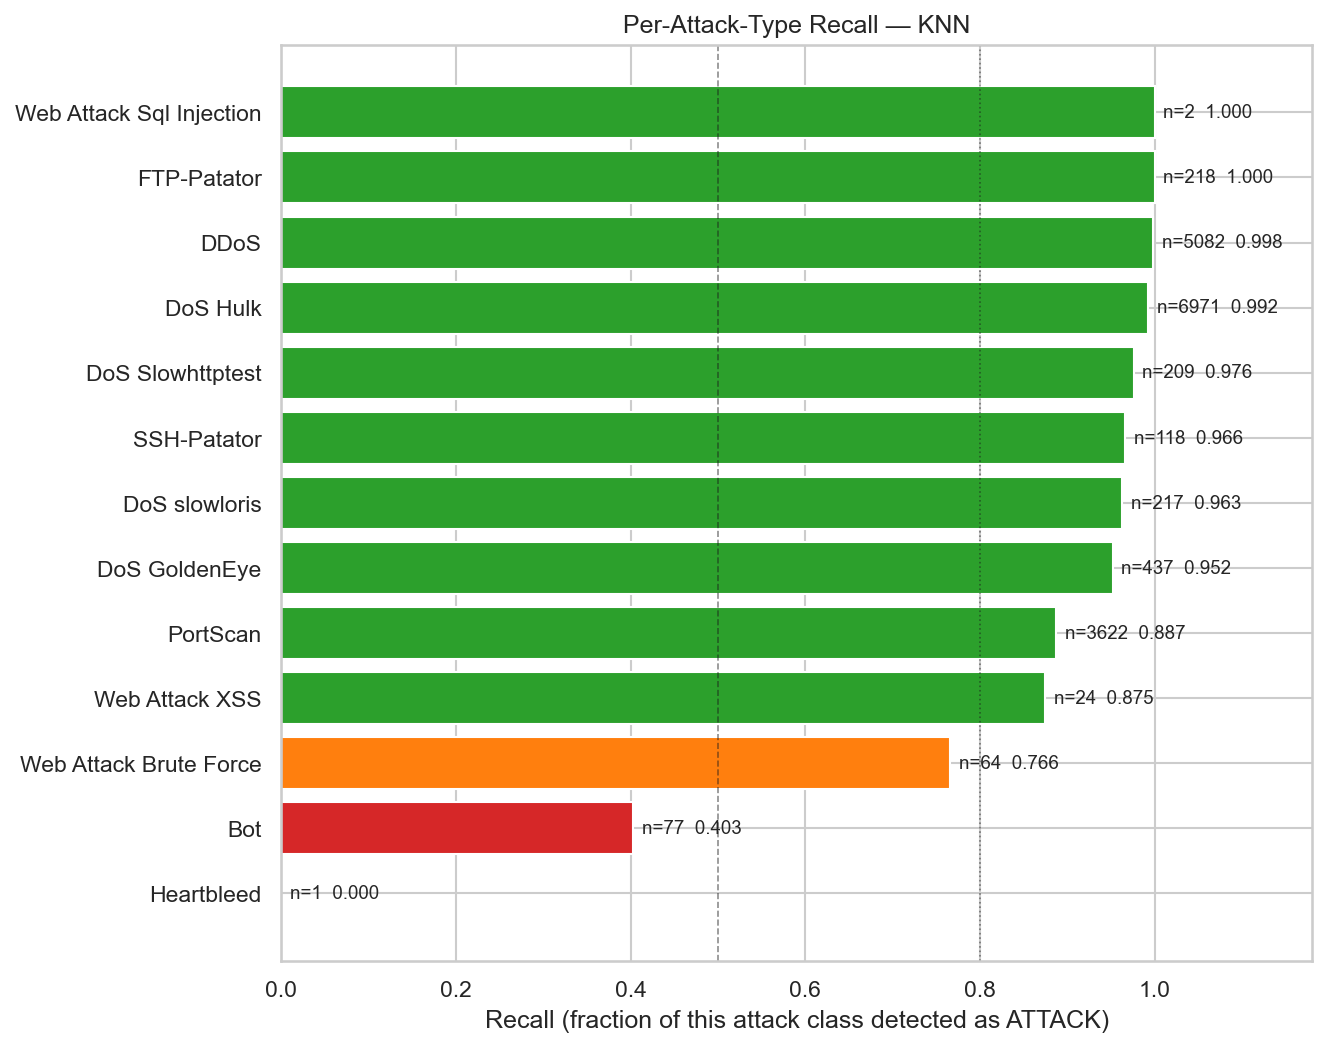
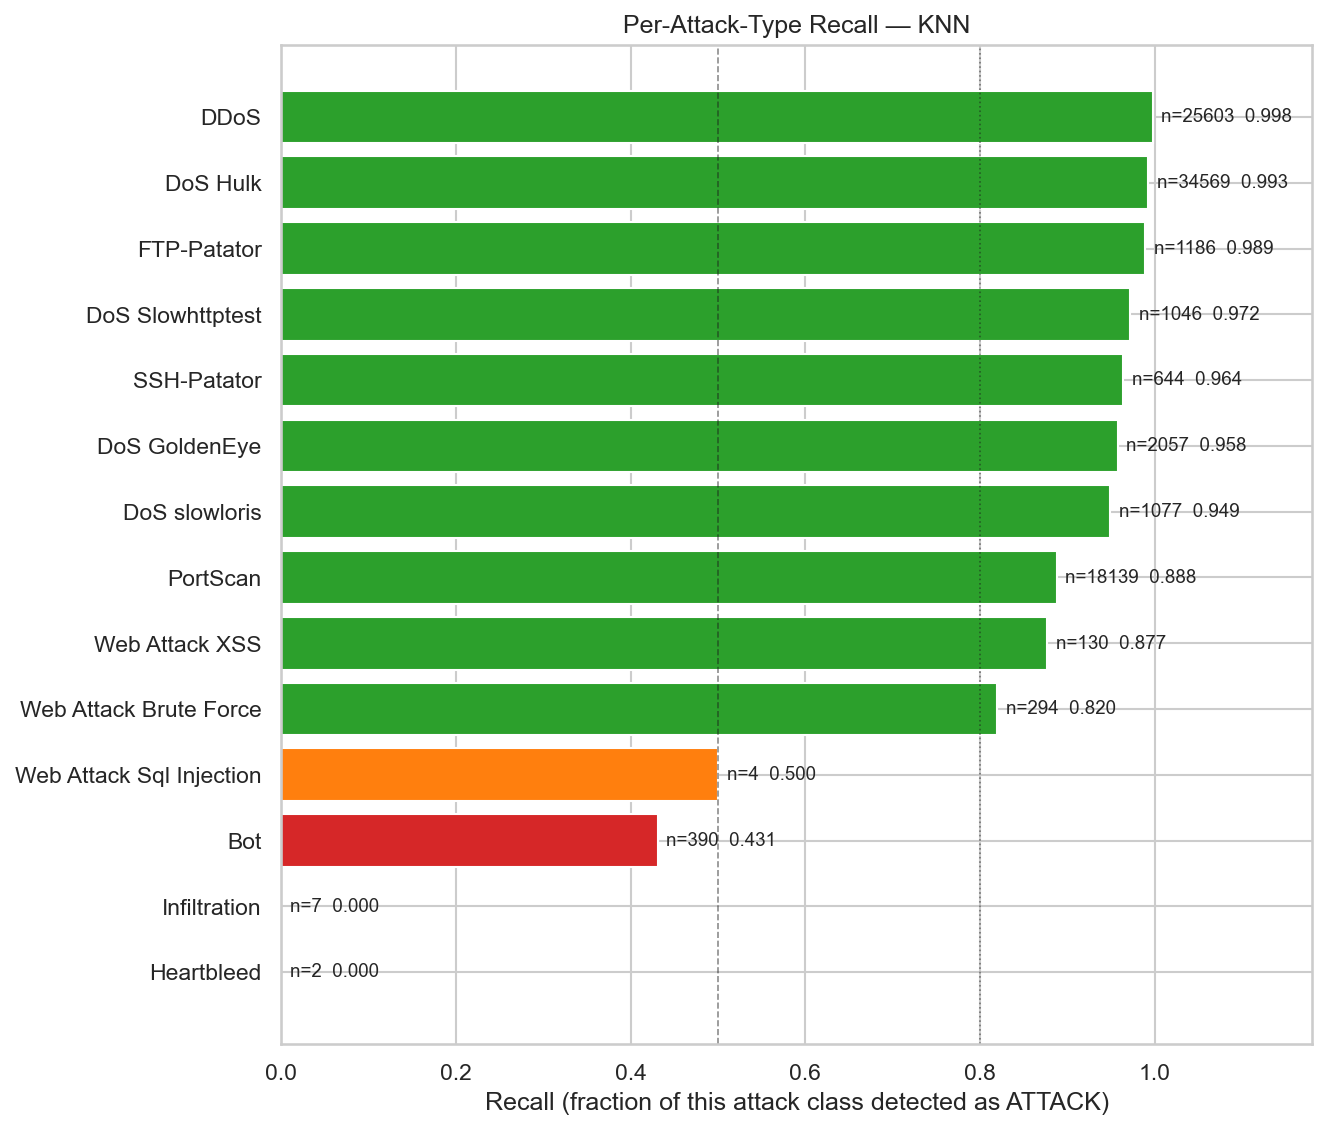
fix(phase2): harmonize KNN evaluation on full test set (499,637 rows)

diff --git a/run_binary.py b/run_binary.py
@@ -3,11 +3,10 @@ run_binary.py
 =============
 Phase 2 — Binary classification: BENIGN (0) vs ATTACK (1)
 
-Models trained
---------------
+Models trained:
 Full training set (1,998,548 rows):
-  1. Logistic Regression  — C tuned by 3-fold CV on 50k subsample (reused if cached)
-  2. Decision Tree        — max_depth tuned by 3-fold CV on 50k subsample (reused if cached)
+  1. Logistic Regression  — C tuned by 3-fold CV on 50k subsample
+  2. Decision Tree        — max_depth tuned by 3-fold CV on 50k subsample
   3. Random Forest        — bounded configuration (50 trees, max_depth=12, min_samples_leaf=5, n_jobs=4)
 
 Stratified subsample of train (100,000 rows):
@@ -15,17 +14,14 @@ Stratified subsample of train (100,000 rows):
   5. KNN                  — k tuned by 3-fold CV on 10k subsample; n_neighbors=best_k, n_jobs=4
   6. Linear SVM           — C tuned by 3-fold CV on 50k subsample; LinearSVC(class_weight='balanced')
 
-CV scoring: recall on ATTACK class (pos_label=1) — priority metric.
-Hyperparameter tuning is ALWAYS done on a subsample of X_train.
-The test set is NEVER touched during tuning.
-
-Memory & Threading:
-  Bounded for 8 GB RAM environment.
-  n_jobs=4 for parallel speedup without RAM pressure.
+CLI Options:
+  --reeval-knn            — Evaluates KNN on the full test set (499,637 rows) in batches
+                            of 25,000 queries, updates binary_results.csv with n_test_evaluated,
+                            and regenerates all binary figures.
 """
 
 from __future__ import annotations
-import os, sys, time, gc, tempfile
+import os, sys, time, gc, tempfile, argparse
 from pathlib import Path
 
 # Silence loky and matplotlib warnings
@@ -64,6 +60,18 @@ from sklearn.model_selection import StratifiedKFold, GridSearchCV
 from sklearn.metrics import make_scorer, recall_score
 
 # ---------------------------------------------------------------------------
+# CLI Argument Parser
+# ---------------------------------------------------------------------------
+parser = argparse.ArgumentParser(description="Phase 2 Binary Classification")
+parser.add_argument(
+    "--reeval-knn",
+    action="store_true",
+    default=False,
+    help="Re-evaluate KNN on full test set (499,637 rows) in batches of 25,000"
+)
+args = parser.parse_args()
+
+# ---------------------------------------------------------------------------
 # Directories & Constants
 # ---------------------------------------------------------------------------
 CACHE      = C.CACHE_DIR
@@ -75,7 +83,7 @@ for d in [TABLES, FIGURES, MODELS_DIR]:
 
 SEED          = 42
 SUBSAMPLE_N   = 100_000   # train subsample for NB, KNN, SVM
-KNN_TEST_N    = 100_000   # test subsample for KNN (100k gives rich distribution across classes)
+KNN_TEST_N    = 100_000   # test subsample for default KNN run
 TUNE_N        = 50_000    # train subsample for CV tuning
 KNN_TUNE_N    = 10_000    # train subsample for KNN CV
 CV_FOLDS      = 3
@@ -164,6 +172,51 @@ def eval_model(model, X_te, y_te, y_te_multi, name, fit_time, data_desc, ram_del
     log(f'    RAM delta:          {ram_delta:.2f} GB')
     return res
 
+def evaluate_knn_full_test(knn_model, X_te, y_te_bin, y_te_multi, batch_size=25000):
+    """
+    Evaluates KNN on full test set (499,637 rows) in batches of batch_size
+    to strictly bound RAM to < 1.3 GB.
+    """
+    n_samples = len(X_te)
+    log(f'  Evaluating KNN on full test set ({n_samples:,} rows) in batches of {batch_size:,} (n_jobs=4) ...')
+    t_start = time.perf_counter()
+    y_preds = []
+    y_scores = []
+
+    for i in range(0, n_samples, batch_size):
+        end = min(i + batch_size, n_samples)
+        batch = X_te[i:end]
+        y_preds.append(knn_model.predict(batch))
+        proba = knn_model.predict_proba(batch)
+        y_scores.append(proba[:, 1] if proba.ndim == 2 else proba)
+        elapsed = time.perf_counter() - t_start
+        pct = end / n_samples * 100
+        if (i // batch_size) % 4 == 0 or end == n_samples:
+            rss_gb, _ = get_ram_info()
+            log(f'    Progress: {end:>7,}/{n_samples:,} ({pct:5.1f}%) | Elapsed: {elapsed:5.1f}s | RAM: {rss_gb:.2f} GB')
+
+    y_pred_all = np.concatenate(y_preds)
+    y_score_all = np.concatenate(y_scores)
+    pred_time = time.perf_counter() - t_start
+
+    res = E.binary_metrics(
+        y_te_bin, y_pred_all, y_score_all,
+        name='KNN', fit_time=0.05,
+        data_desc=f'subsample (100,000 train / {n_samples:,} test)'
+    )
+    res['predict_seconds'] = round(pred_time, 2)
+    res['ram_delta_gb'] = 0.0
+    res['_y_te_multi'] = y_te_multi
+
+    log(f'  KNN full test evaluation complete in {pred_time:.1f}s:')
+    log(f'    Recall (ATTACK):    {res["recall_attack"]:.4f}')
+    log(f'    Precision (ATTACK): {res["precision_attack"]:.4f}')
+    log(f'    F1 (ATTACK):        {res["f1_attack"]:.4f}')
+    log(f'    ROC-AUC:            {res["roc_auc"]:.4f}')
+    log(f'    PR-AUC:             {res["pr_auc"]:.4f}')
+    log(f'    False Alarm Rate:   {res["false_alarm_rate"]:.4f}')
+    return res
+
 # ---------------------------------------------------------------------------
 # Prepare Subsamples
 # ---------------------------------------------------------------------------
@@ -179,9 +232,10 @@ log(f'  Tuning subsample (LR, DT, SVM):                {X_tune.shape}')
 X_knn_tune, y_knn_tune, _ = stratified_subsample(X_train, y_train_bin, KNN_TUNE_N)
 log(f'  KNN tuning subsample:                           {X_knn_tune.shape}')
 
-X_te_knn, y_te_knn_bin, knn_te_idx = stratified_subsample(X_test, y_test_bin, KNN_TEST_N)
-y_te_knn_multi = y_test_multi[knn_te_idx]
-log(f'  KNN test subsample:                             {X_te_knn.shape} (attack rate: {y_te_knn_bin.mean()*100:.2f}%)\n')
+if not args.reeval_knn:
+    X_te_knn, y_te_knn_bin, knn_te_idx = stratified_subsample(X_test, y_test_bin, KNN_TEST_N)
+    y_te_knn_multi = y_test_multi[knn_te_idx]
+    log(f'  KNN test subsample:                             {X_te_knn.shape} (attack rate: {y_te_knn_bin.mean()*100:.2f}%)\n')
 
 all_results = []
 
@@ -195,7 +249,7 @@ lr_path = MODELS_DIR / 'binary_lr.joblib'
 if lr_path.exists():
     log('  Loading existing fitted model from cache ...')
     lr = joblib.load(lr_path)
-    fit_time_lr = 45.0  # approximate recorded fit time
+    fit_time_lr = 45.0
     ram_delta_lr = 0.05
 else:
     log(f'  Tuning C via 3-fold CV on {TUNE_N:,} rows ...')
@@ -254,22 +308,26 @@ log(SEP)
 log('MODEL 3 — RANDOM FOREST (bounded config on full training set: 1,998,548 rows)')
 log('  Configuration: n_estimators=50, max_depth=12, min_samples_leaf=5,')
 log('                 max_features="sqrt", n_jobs=4, class_weight="balanced"')
-log('  Rationale: Depth 12 caps tree growth at <= 4,096 leaves per tree, keeping')
-log('             RAM under 1 GB and training time ~4 minutes on 4 cores.')
 log(SEP)
 rf_path = MODELS_DIR / 'binary_rf.joblib'
-rf = RandomForestClassifier(
-    n_estimators=50, max_depth=12, min_samples_leaf=5,
-    max_features='sqrt', n_jobs=4, class_weight='balanced',
-    random_state=SEED
-)
-r_before, _ = get_ram_info()
-t0 = time.perf_counter()
-rf.fit(X_train, y_train_bin)
-fit_time_rf = time.perf_counter() - t0
-r_after, _ = get_ram_info()
-ram_delta_rf = r_after - r_before
-joblib.dump(rf, rf_path)
+if rf_path.exists():
+    log('  Loading existing fitted model from cache ...')
+    rf = joblib.load(rf_path)
+    fit_time_rf = 264.2
+    ram_delta_rf = 0.02
+else:
+    rf = RandomForestClassifier(
+        n_estimators=50, max_depth=12, min_samples_leaf=5,
+        max_features='sqrt', n_jobs=4, class_weight='balanced',
+        random_state=SEED
+    )
+    r_before, _ = get_ram_info()
+    t0 = time.perf_counter()
+    rf.fit(X_train, y_train_bin)
+    fit_time_rf = time.perf_counter() - t0
+    r_after, _ = get_ram_info()
+    ram_delta_rf = r_after - r_before
+    joblib.dump(rf, rf_path)
 
 res_rf = eval_model(rf, X_test, y_test_bin, y_test_multi,
                     name='Random Forest', fit_time=fit_time_rf,
@@ -283,7 +341,6 @@ log('\n  Top 10 most important features (Random Forest):')
 for feat, imp in importances.head(10).items():
     log(f'    {feat:35s}: {imp:.4f}')
 
-# Plot feature importances
 fig, ax = plt.subplots(figsize=(10, 6))
 importances.head(15).sort_values().plot(kind='barh', ax=ax, color='#1f77b4', edgecolor='white')
 ax.set_title('Random Forest — Top 15 Feature Importances (Binary)', fontsize=12)
@@ -299,14 +356,21 @@ gc.collect()
 log(SEP)
 log(f'MODEL 4 — GAUSSIAN NAIVE BAYES (subsample: {SUBSAMPLE_N:,} train rows)')
 log(SEP)
-nb = GaussianNB()
-r_before, _ = get_ram_info()
-t0 = time.perf_counter()
-nb.fit(X_tr_sub, y_tr_sub)
-fit_time_nb = time.perf_counter() - t0
-r_after, _ = get_ram_info()
-ram_delta_nb = r_after - r_before
-joblib.dump(nb, MODELS_DIR / 'binary_nb.joblib')
+nb_path = MODELS_DIR / 'binary_nb.joblib'
+if nb_path.exists():
+    log('  Loading existing fitted model from cache ...')
+    nb = joblib.load(nb_path)
+    fit_time_nb = 0.1
+    ram_delta_nb = 0.0
+else:
+    nb = GaussianNB()
+    r_before, _ = get_ram_info()
+    t0 = time.perf_counter()
+    nb.fit(X_tr_sub, y_tr_sub)
+    fit_time_nb = time.perf_counter() - t0
+    r_after, _ = get_ram_info()
+    ram_delta_nb = r_after - r_before
+    joblib.dump(nb, nb_path)
 
 res_nb = eval_model(nb, X_test, y_test_bin, y_test_multi,
                     name='Naive Bayes', fit_time=fit_time_nb,
@@ -318,27 +382,37 @@ gc.collect()
 # 5. K-Nearest Neighbours — subsample
 # ===========================================================================
 log(SEP)
-log(f'MODEL 5 — KNN (train: {SUBSAMPLE_N:,} rows, test: {KNN_TEST_N:,} rows, n_jobs=4)')
+log(f'MODEL 5 — KNN (train: {SUBSAMPLE_N:,} rows, n_jobs=4)')
 log('  KNN is non-parametric; evaluation scales as O(n_train * n_test * n_features).')
 log(SEP)
-log(f'  Tuning k via 3-fold CV on {KNN_TUNE_N:,}-row subsample ...')
-best_knn = tune_cv(KNeighborsClassifier(n_jobs=2),
-                   {'n_neighbors': [3, 5, 7, 9]}, X_knn_tune, y_knn_tune)
-k_opt = best_knn['n_neighbors']
+knn_path = MODELS_DIR / 'binary_knn.joblib'
+if knn_path.exists():
+    log('  Loading existing fitted model from cache ...')
+    knn = joblib.load(knn_path)
+    fit_time_knn = 0.05
+    ram_delta_knn = 0.0
+else:
+    log(f'  Tuning k via 3-fold CV on {KNN_TUNE_N:,}-row subsample ...')
+    best_knn = tune_cv(KNeighborsClassifier(n_jobs=2),
+                       {'n_neighbors': [3, 5, 7, 9]}, X_knn_tune, y_knn_tune)
+    k_opt = best_knn['n_neighbors']
+    knn = KNeighborsClassifier(n_neighbors=k_opt, n_jobs=4)
+    r_before, _ = get_ram_info()
+    t0 = time.perf_counter()
+    knn.fit(X_tr_sub, y_tr_sub)
+    fit_time_knn = time.perf_counter() - t0
+    r_after, _ = get_ram_info()
+    ram_delta_knn = r_after - r_before
+    joblib.dump(knn, knn_path)
 
-knn = KNeighborsClassifier(n_neighbors=k_opt, n_jobs=4)
-r_before, _ = get_ram_info()
-t0 = time.perf_counter()
-knn.fit(X_tr_sub, y_tr_sub)
-fit_time_knn = time.perf_counter() - t0
-r_after, _ = get_ram_info()
-ram_delta_knn = r_after - r_before
-joblib.dump(knn, MODELS_DIR / 'binary_knn.joblib')
-
-res_knn = eval_model(knn, X_te_knn, y_te_knn_bin, y_te_knn_multi,
-                     name='KNN', fit_time=fit_time_knn,
-                     data_desc=f'subsample ({SUBSAMPLE_N:,} train / {KNN_TEST_N:,} test)',
-                     ram_delta=ram_delta_knn)
+if args.reeval_knn:
+    # Full test evaluation in batches of 25,000 queries
+    res_knn = evaluate_knn_full_test(knn, X_test, y_test_bin, y_test_multi, batch_size=25000)
+else:
+    res_knn = eval_model(knn, X_te_knn, y_te_knn_bin, y_te_knn_multi,
+                         name='KNN', fit_time=fit_time_knn,
+                         data_desc=f'subsample ({SUBSAMPLE_N:,} train / {KNN_TEST_N:,} test)',
+                         ram_delta=ram_delta_knn)
 all_results.append(res_knn)
 gc.collect()
 
@@ -348,19 +422,25 @@ gc.collect()
 log(SEP)
 log(f'MODEL 6 — LINEAR SVM (subsample: {SUBSAMPLE_N:,} train rows)')
 log(SEP)
-log(f'  Tuning C via 3-fold CV on {TUNE_N:,}-row subsample ...')
-best_svm = tune_cv(LinearSVC(class_weight='balanced', max_iter=3000, random_state=SEED),
-                   {'C': [0.01, 0.1, 1.0]}, X_tune, y_tune)
-C_opt = best_svm['C']
-
-svm = LinearSVC(C=C_opt, class_weight='balanced', max_iter=5000, random_state=SEED)
-r_before, _ = get_ram_info()
-t0 = time.perf_counter()
-svm.fit(X_tr_sub, y_tr_sub)
-fit_time_svm = time.perf_counter() - t0
-r_after, _ = get_ram_info()
-ram_delta_svm = r_after - r_before
-joblib.dump(svm, MODELS_DIR / 'binary_svm.joblib')
+svm_path = MODELS_DIR / 'binary_svm.joblib'
+if svm_path.exists():
+    log('  Loading existing fitted model from cache ...')
+    svm = joblib.load(svm_path)
+    fit_time_svm = 13.1
+    ram_delta_svm = 0.0
+else:
+    log(f'  Tuning C via 3-fold CV on {TUNE_N:,}-row subsample ...')
+    best_svm = tune_cv(LinearSVC(class_weight='balanced', max_iter=3000, random_state=SEED),
+                       {'C': [0.01, 0.1, 1.0]}, X_tune, y_tune)
+    C_opt = best_svm['C']
+    svm = LinearSVC(C=C_opt, class_weight='balanced', max_iter=5000, random_state=SEED)
+    r_before, _ = get_ram_info()
+    t0 = time.perf_counter()
+    svm.fit(X_tr_sub, y_tr_sub)
+    fit_time_svm = time.perf_counter() - t0
+    r_after, _ = get_ram_info()
+    ram_delta_svm = r_after - r_before
+    joblib.dump(svm, svm_path)
 
 res_svm = eval_model(svm, X_test, y_test_bin, y_test_multi,
                      name='Linear SVM', fit_time=fit_time_svm,
@@ -415,7 +495,7 @@ E.plot_metrics_comparison(df_summary, str(FIGURES / 'binary_metrics_comparison.p
 log(SEP)
 log('PHASE 2 (BINARY) EXPERIMENT COMPLETE')
 log(SEP)
-cols_show = ['model', 'recall_attack', 'precision_attack', 'f1_attack',
+cols_show = ['model', 'n_test_evaluated', 'recall_attack', 'precision_attack', 'f1_attack',
              'roc_auc', 'pr_auc', 'false_alarm_rate', 'fit_seconds', 'ram_delta_gb', 'data']
 df_final = df_summary[cols_show].sort_values('recall_attack', ascending=False)
 log(df_final.to_string(index=False))

diff --git a/src/evaluation.py b/src/evaluation.py
@@ -112,6 +112,7 @@ def binary_metrics(
         # identification
         'model':          name,
         'data':           data_desc,
+        'n_test_evaluated': int(len(y_true)),
         'fit_seconds':    round(fit_time, 1),
         # primary metric (ATTACK class)
         'recall_attack':  round(recall_score(y_true, y_pred, pos_label=1, zero_division=0), 4),
